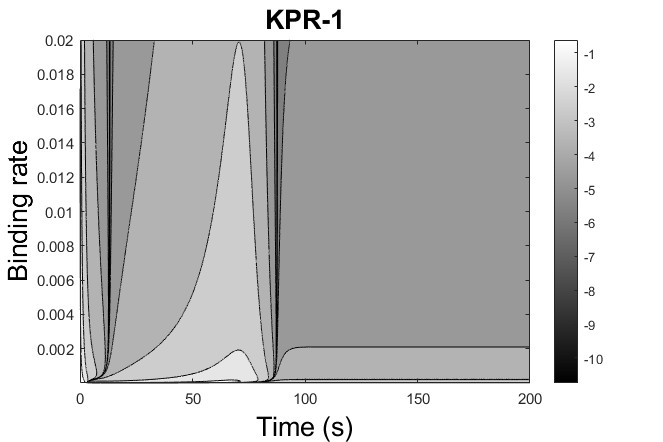
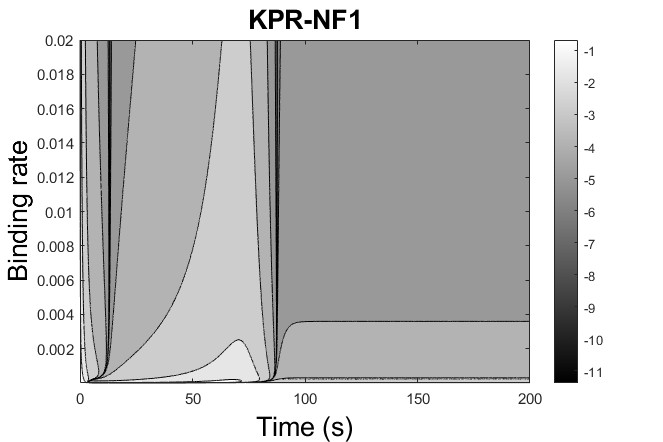
n

diff --git a/Sensitivity Analysis/KPR_NF1_Sensitivity.m b/Sensitivity Analysis/KPR_NF1_Sensitivity.m
@@ -197,7 +197,7 @@ hold on
 function solution = sensitivity(x0, p, d, tspan)
 
     ST = @(t,y)ODEKPRNegFeed(t, y, p);
-    options = odeset('RelTol',1e-6,'AbsTol',1e-8, 'Refine', 1);
+    options = odeset('RelTol',1e-5,'AbsTol',1e-5, 'Refine', 1);
     [t,x] = ode45(ST, tspan, x0, options);
     
     lp = length(p); ls = size(x, 1); lx = length(x0);
@@ -218,7 +218,7 @@ function solution = sensitivity(x0, p, d, tspan)
         % para calcular la derivada parcial de la solución con respecto a ese parámetro.
         p(j) = p(j) + d * 1i; % Perturba el parámetro
         
-        options = odeset('RelTol',1e-6,'AbsTol',1e-8, 'Refine', 1);
+        options = odeset('RelTol',1e-5,'AbsTol',1e-5, 'Refine', 1);
         ST = @(t,y)ODEKPRNegFeed(t, y, p);
         [t,x] = ode45(ST, tspan, x0, options);
         
